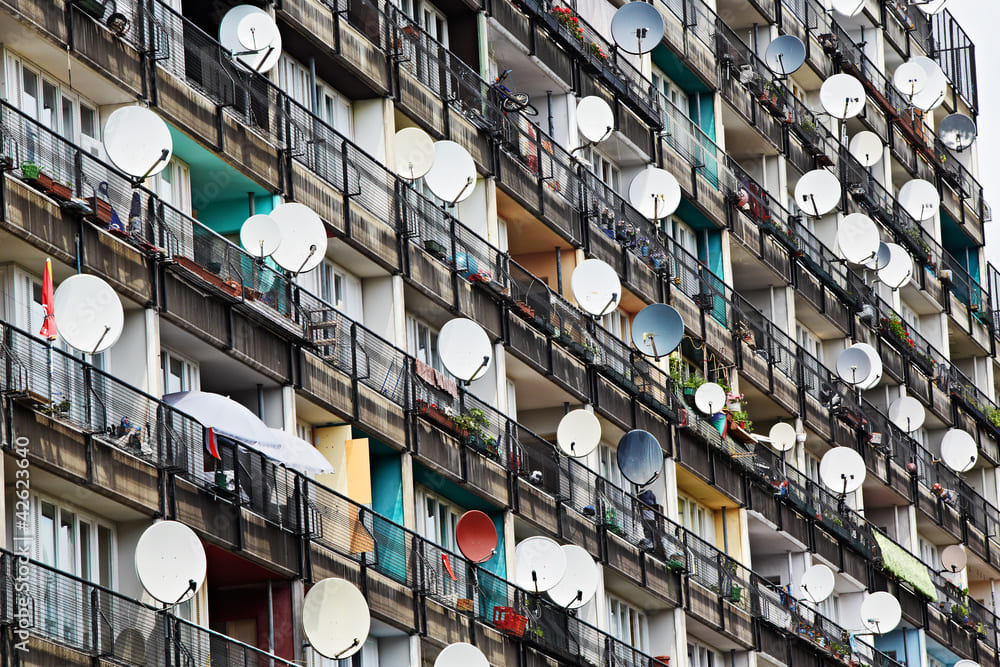
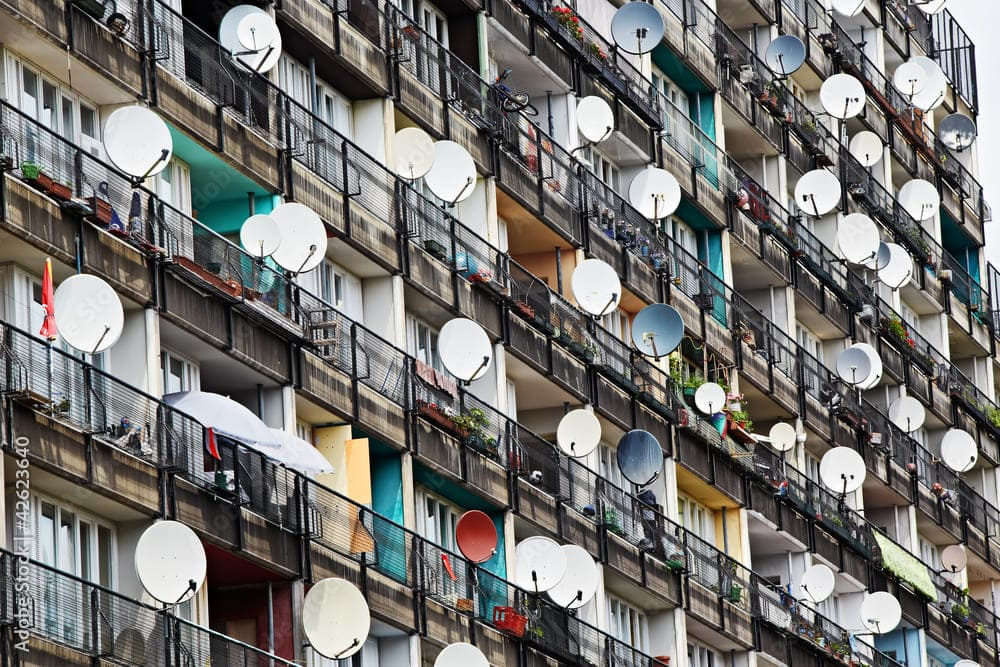
Compressed sign up background picture

diff --git a/assets/css/style.css b/assets/css/style.css
@@ -215,8 +215,7 @@ footer {
     margin: 5% 10% 0 0;
     padding: 5%;
     color: white;
-    background-color: rgb(98, 8, 25);
-    opacity: 0.8;
+    background-color: rgb(98, 8, 25, .8);
     position: absolute;
     left: 10%;
 }

diff --git a/README.md b/README.md
@@ -86,6 +86,12 @@ Originally I had intended to make extensive use of pictures like using part of t
 
 This webpage has been tested on all major browser available to me (Chrome, Safari, Firefox and Edge) and layout and functionality were ensured during all the testings.
 
+### Lighthouse testing
+
+During the first testing using the Lighthouse extension on Chrome I was receiving a low score for performance caused by the size of some images.
+
+I resolved this issue by resizing and compressing several images while also ensuring the consistency of their quality.
+
 ### Validator testing
 
 - ## HTML
@@ -95,7 +101,7 @@ This webpage has been tested on all major browser available to me (Chrome, Safar
 - ## CSS
   - No errors were found when testing on [W3](https://jigsaw.w3.org/css-validator/validator?uri=https%3A%2F%2Falessandrorossi87.github.io%2Fproject1discoverschoneberg%2Findex.html&profile=css3svg&usermedium=all&warning=1&vextwarning=&lang=en)
 
-### Accessibility
+## Accessibility
 
 In order to enhance the accessibility of my webpage, also cosidered the targeted audience, I decided to make good use of ARIA-labels when deemed necessary. I have used a consistent but clear collor pallet which makes the text easy and pleasant to read.
 
